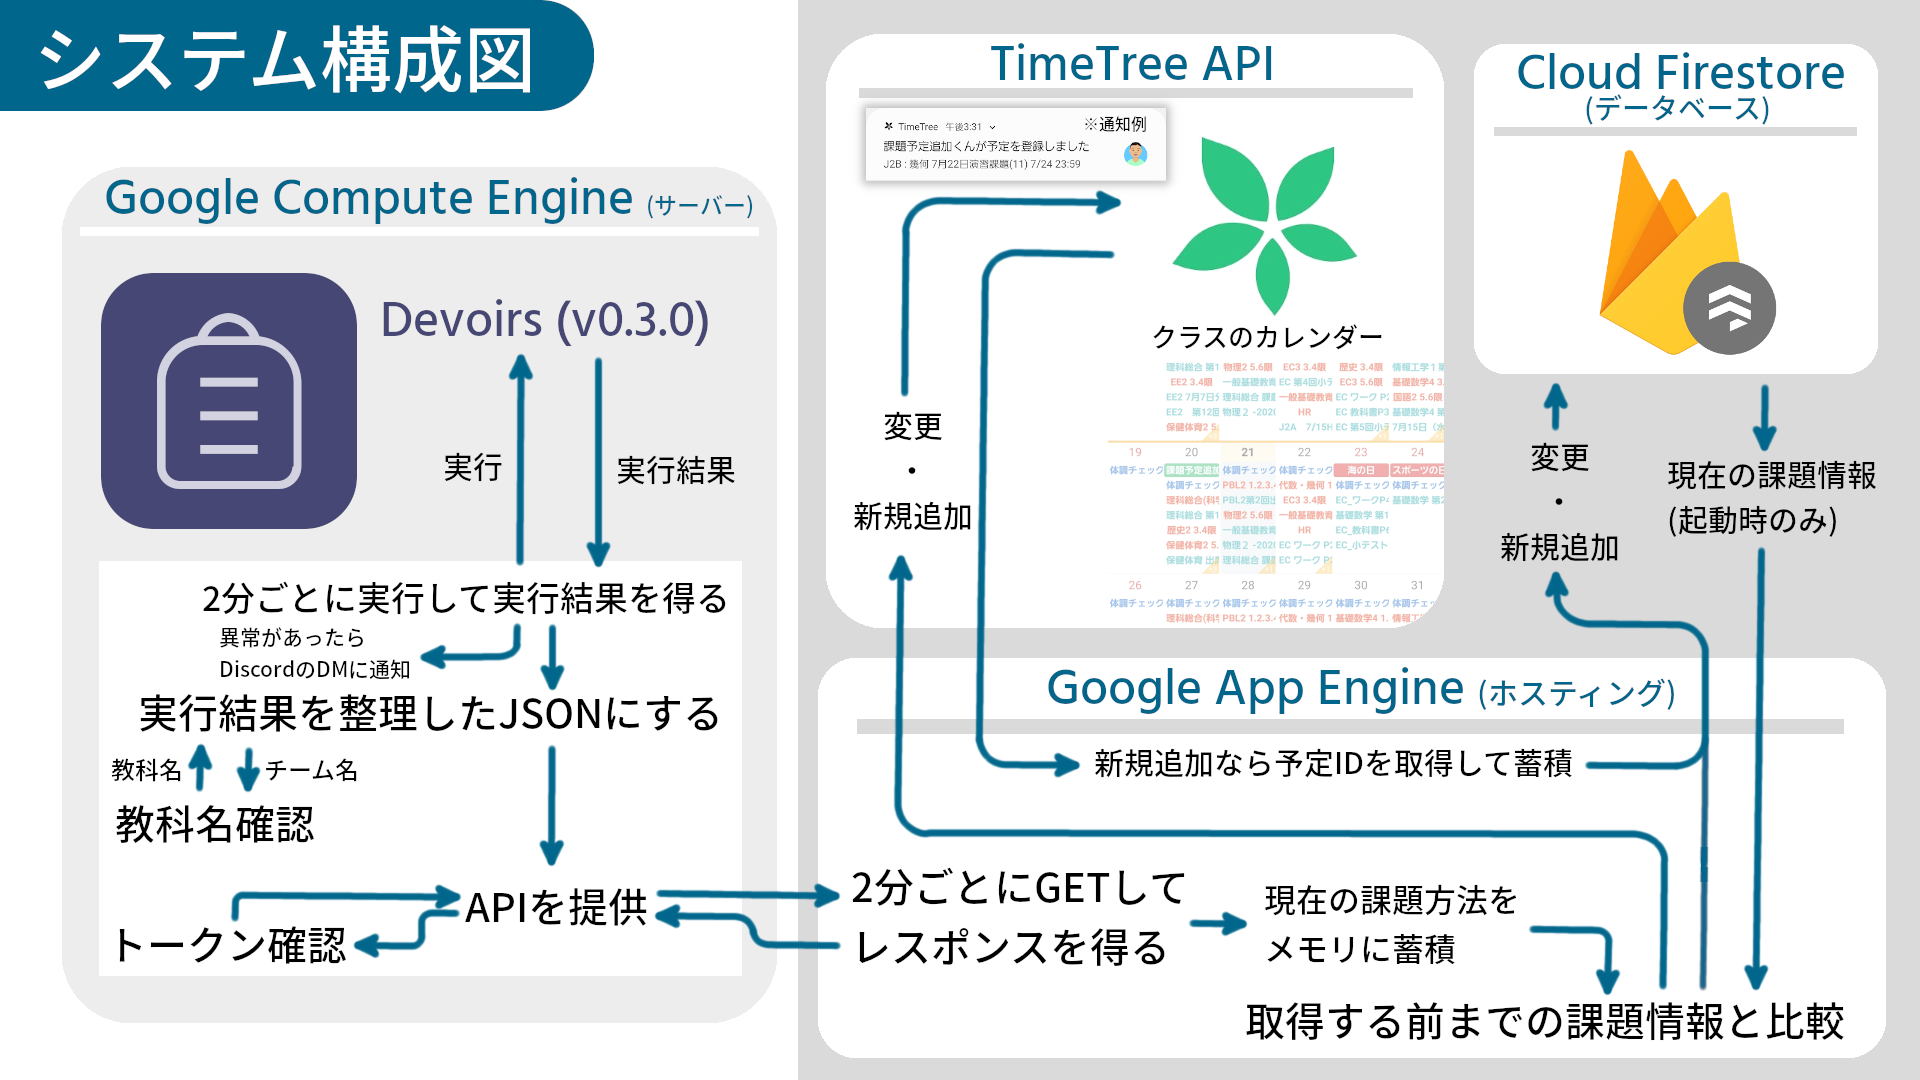
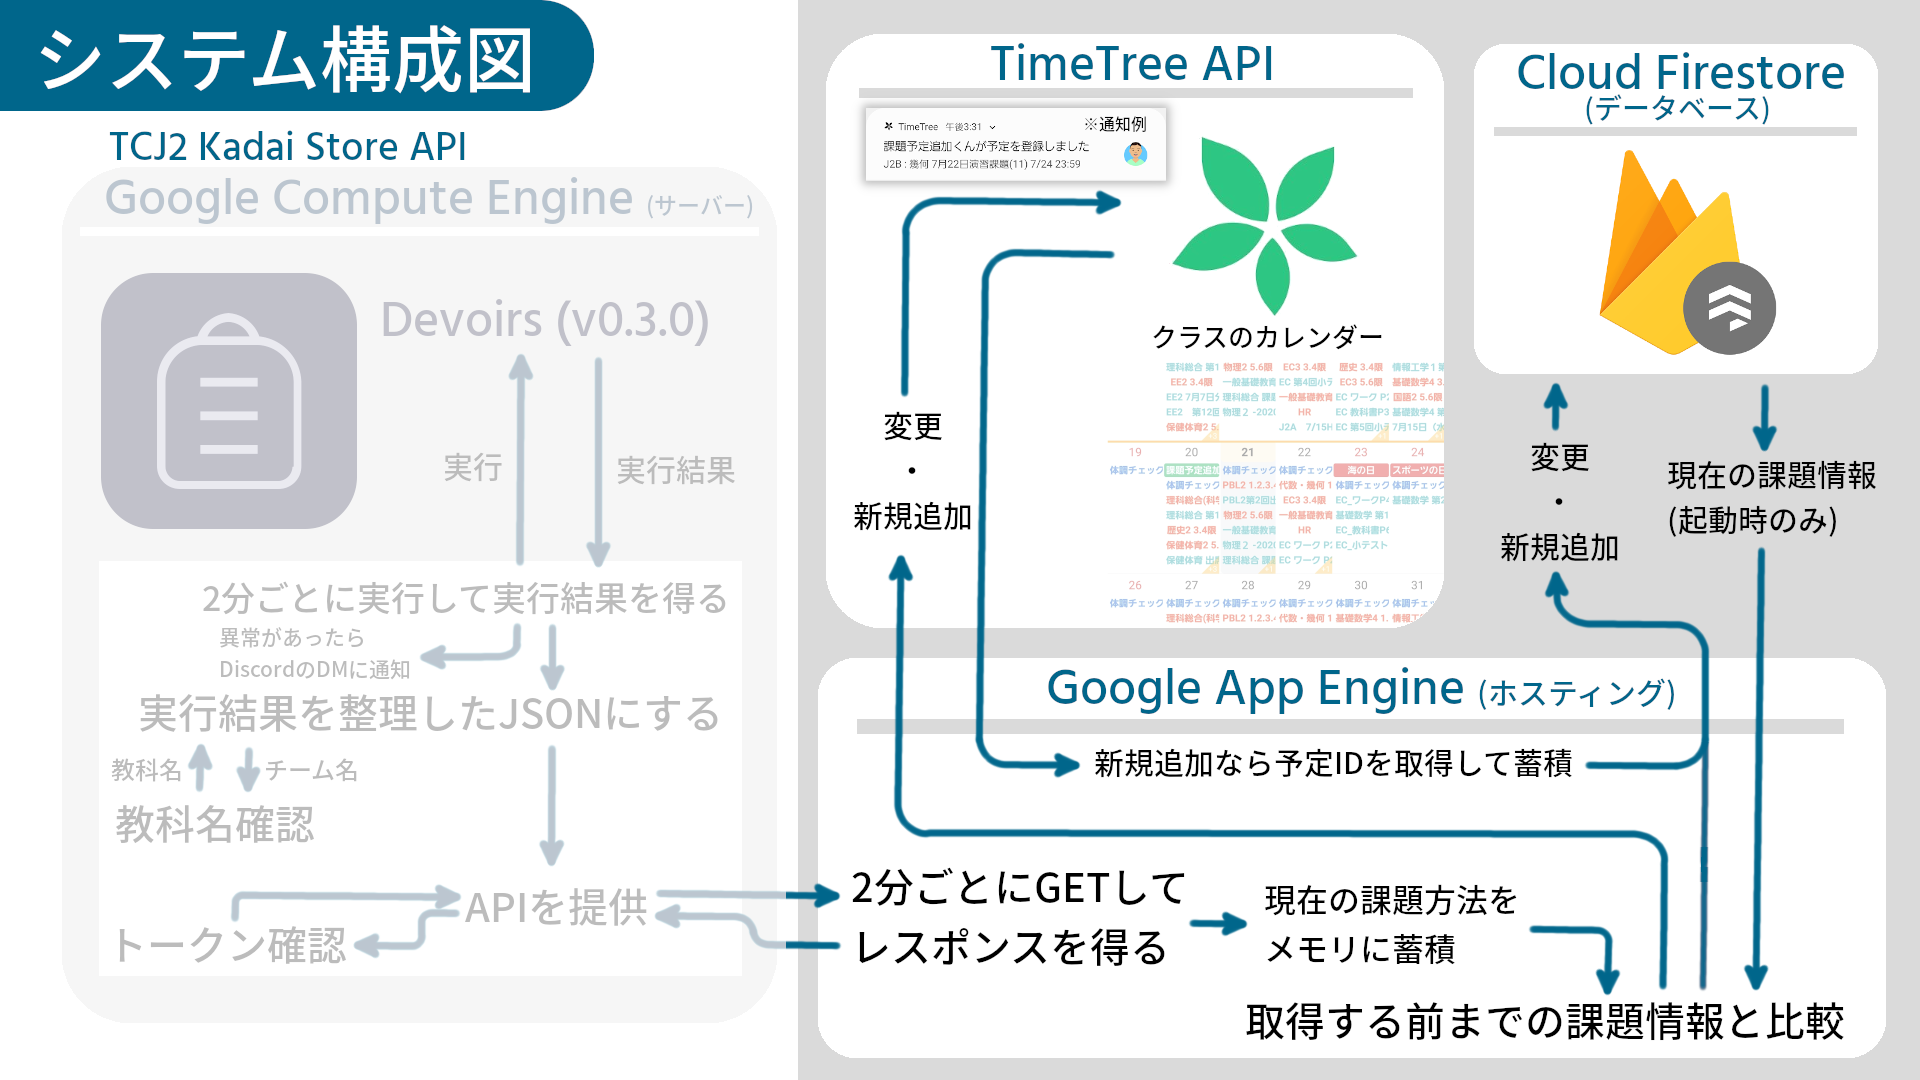
🔄 Change system config image

diff --git a/README.md b/README.md
@@ -2,4 +2,4 @@
 [TCJ2 Kadai Store API](https://github.com/takara2314/tcj2-kadai-store-api) を使用して [Microsoft Teams](https://www.microsoft.com/ja-jp/microsoft-365/microsoft-teams/group-chat-software/)(Microsoft 365 Education) で出されている課題の情報を取得し、クラスのTimeTreeのカレンダーに課題の予定を追加したり、データベースに課題の情報を蓄積します。
 
 ## 🕸 システム構成図
-![SystemConfig](https://github.com/takara2314/tcj2-kadai-store-api/blob/master/SystemConfig.png)
+![SystemConfig](https://github.com/takara2314/tcj2-kadai-store/blob/master/SystemConfig.png)
